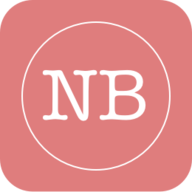
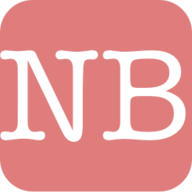
Updated Website

Changed region(s): [[0.0, 0.1875, 0.9688, 0.8125], [0.2812, 0.8125, 0.7188, 0.9062], [0.2812, 0.0938, 0.7188, 0.1875]]

diff --git a/_includes/head/custom.html b/_includes/head/custom.html
@@ -1,6 +1,12 @@
 <!-- start custom head snippets -->
 
 <!-- insert favicons. use https://realfavicongenerator.net/ -->
-
+<link rel="apple-touch-icon" sizes="180x180" href="/images/apple-touch-icon.png">
+<link rel="icon" type="image/png" sizes="32x32" href="/images/favicon-32x32.png">
+<link rel="icon" type="image/png" sizes="16x16" href="/images/favicon-16x16.png">
+<link rel="manifest" href="/images/site.webmanifest">
+<link rel="mask-icon" href="/images/safari-pinned-tab.svg" color="#df7d7d">
+<meta name="msapplication-TileColor" content="#da532c">
+<meta name="theme-color" content="#ffffff">
 
 <!-- end custom head snippets -->
